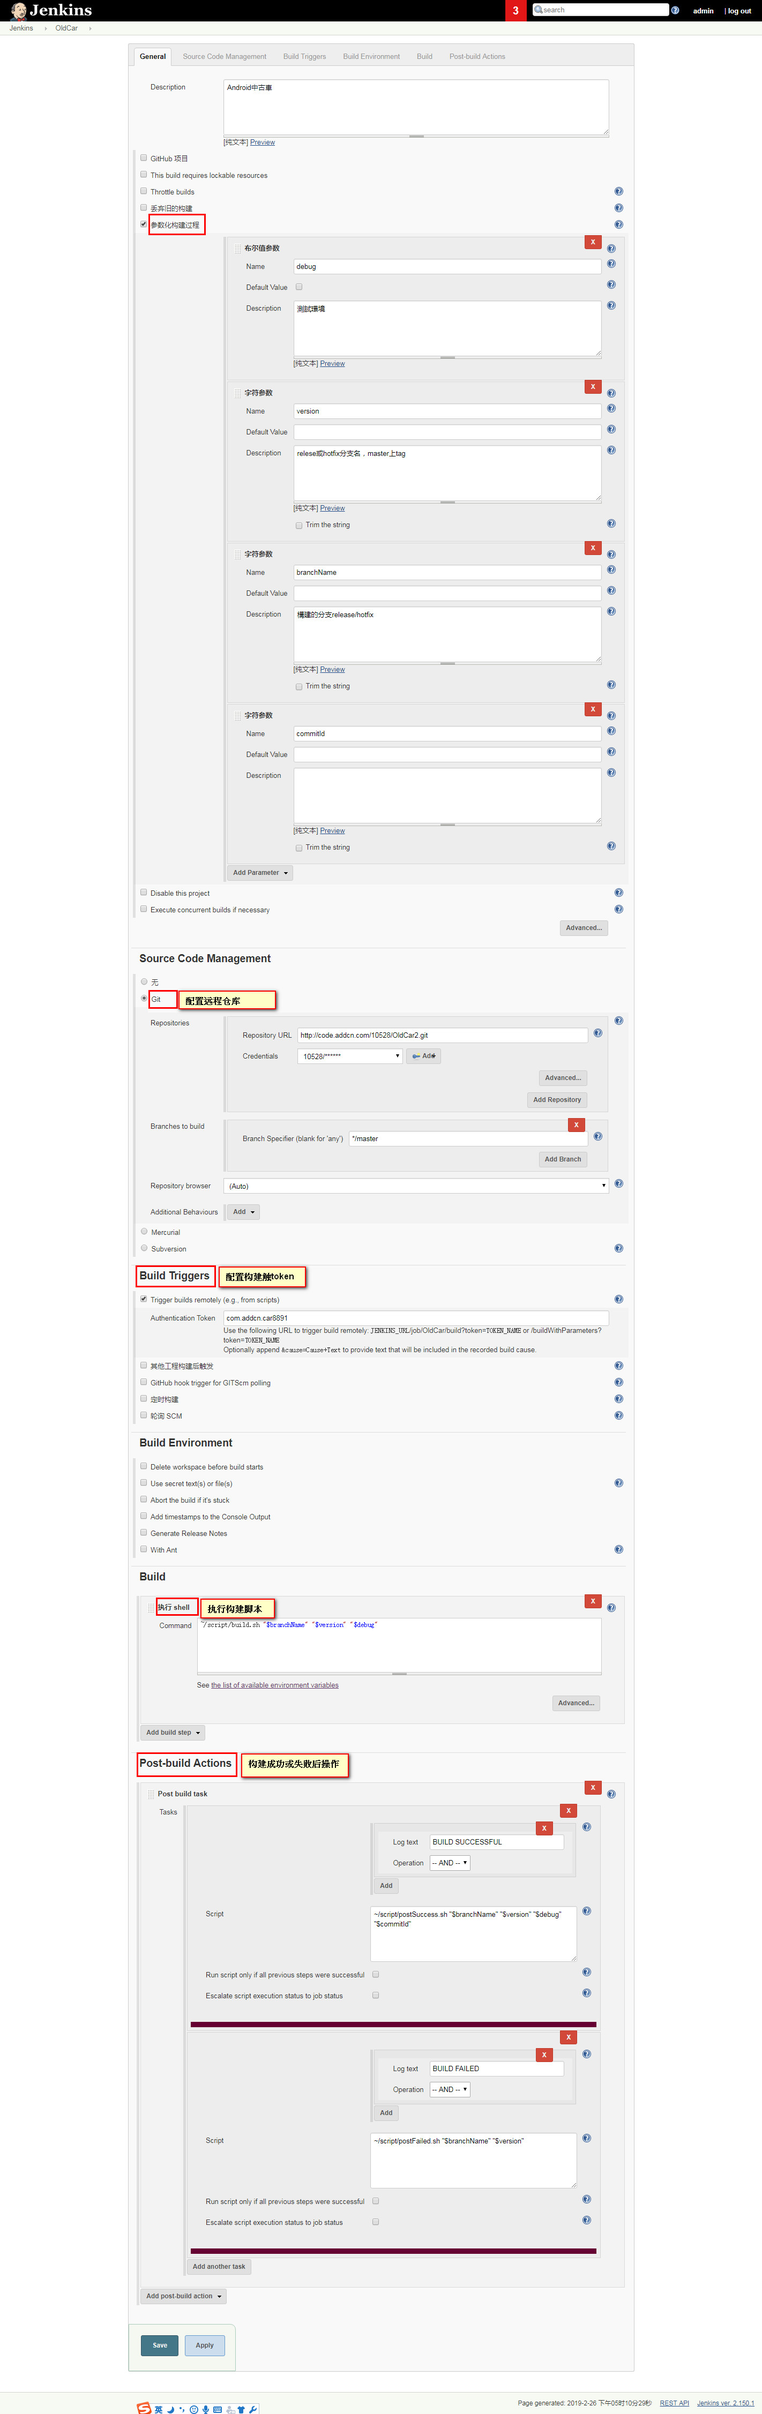
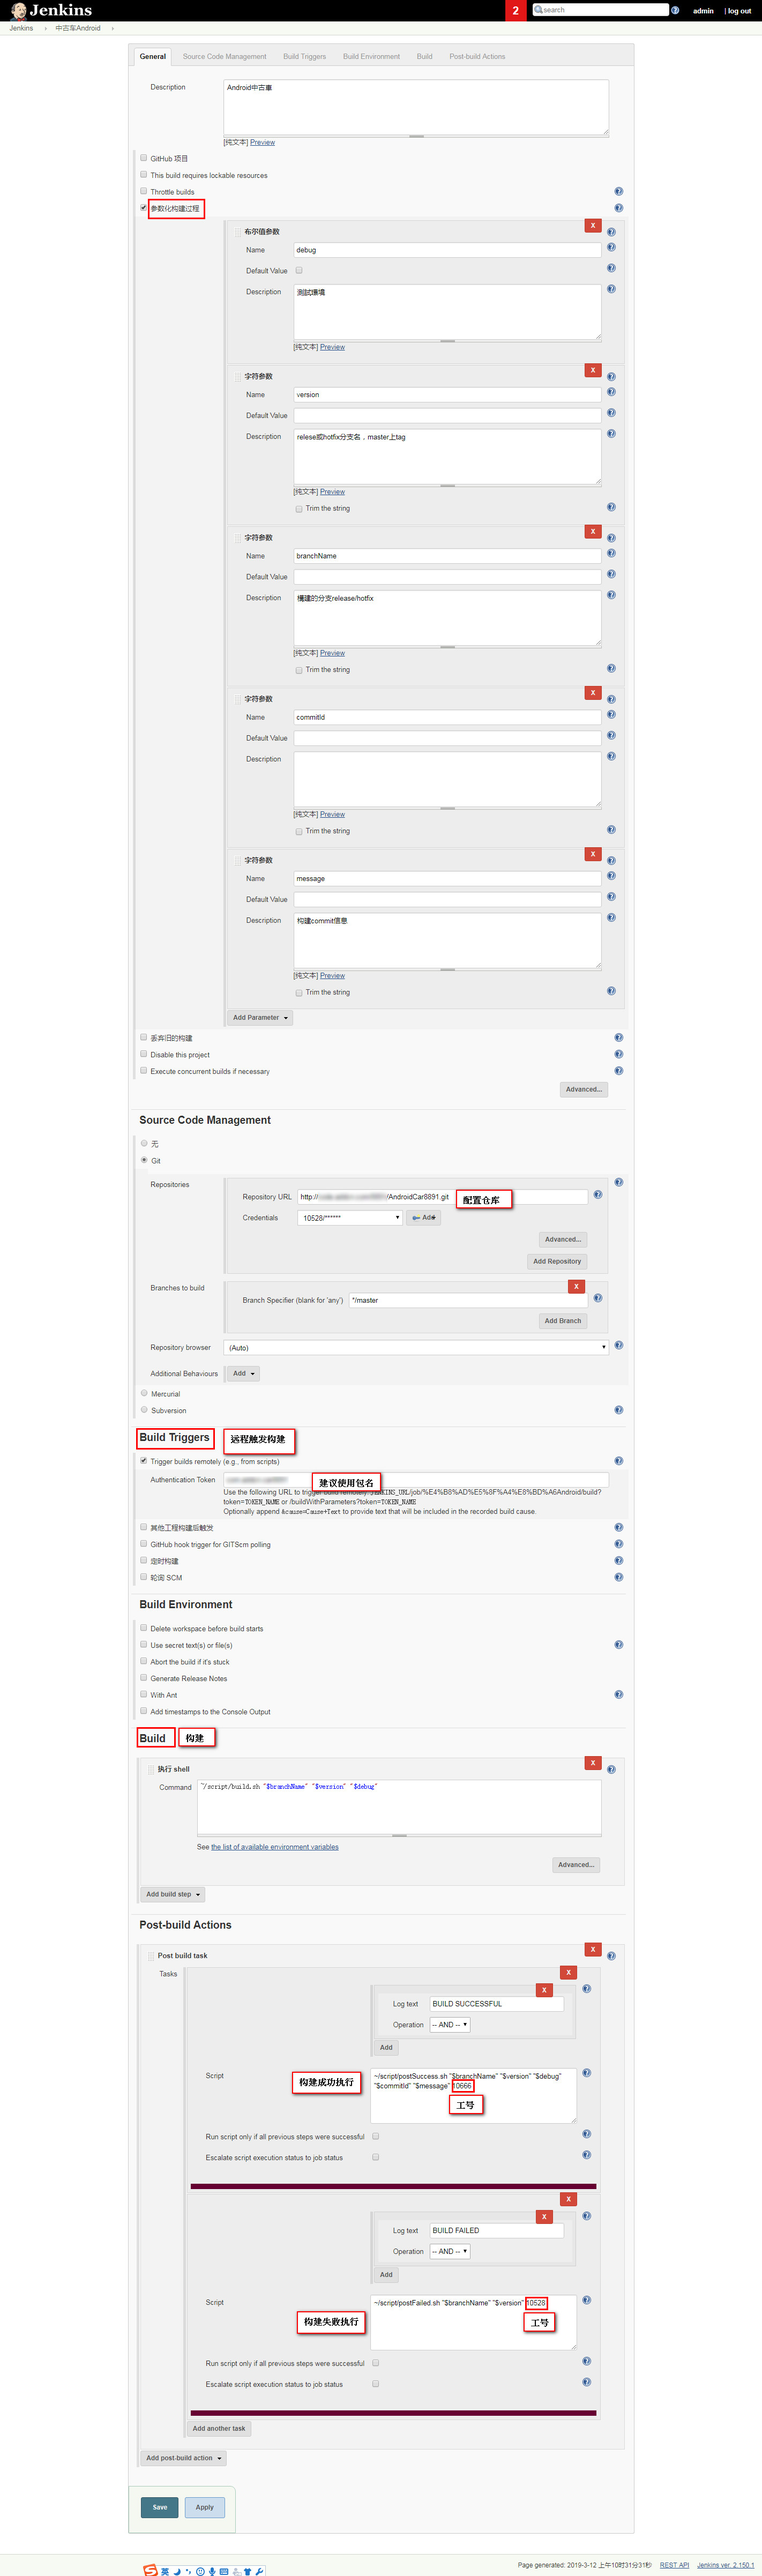
Jenkins实现Android自动打包

diff --git a/Jenkins实现Android自动打包.md b/Jenkins实现Android自动打包.md
@@ -1,0 +1,234 @@
+# Jenkins实现Android自动打包
+
+## 环境搭建
+
+### sdk-tools安装
+
+[下载sdk-tools](https://developer.android.com/studio")
+
+![](/pics/download_sdk_tools.png)
+
+安装完成后使用sdkmanager安装platform-tools和ploatforms
+
+> 构建不需要Android Studio，仅下载命令行工具
+
+### 安装git
+略
+
+### Jenkins安装
+
+ 1. 安装：略
+ 2. 插件：Git、Gradle、post build taks(根据构建log执行构建后操作)、thinBackup(配置备份)
+ 3. 运行：java -jar jenkins.war
+ 4. 配置环境变量：
+ 
+![](/pics/jenkins_git.jpg)
+
+![](/pics/jenkins_env.jpg)
+
+### shell脚本
+
+ [教程](http://www.runoob.com/linux/linux-shell.html)
+
+ > if[condition]是if test condition的另一种写法
+ 
+ > [[expression]]提供针对字符串比较的高级特性,如
+ 
+ ```
+ [["$branchName" == release* || "$branchName" == hotfix*]]
+ ```
+ 
+### 项目配置
+ 
+#### 配置
+
+![](/pics/jenkins_oldcar.jpg)
+
+#### 脚本
+拉取分支，执行Android构建
+build.sh
+
+```
+#!/bin/bash
+branchName=$1
+versioon=$2
+debug=$3
+if [[ "$branchName" == release* || "$branchName" == hotfix* ]]
+then
+	git fetch --all
+    git checkout $branchName
+    if [ $? -eq 0 ]
+    then
+        git pull
+    else
+        echo BUILD FAILED
+        echo no branch:$branchName
+        exit -1
+    fi
+elif [[ $version == *.*.* ]]
+then
+	git fetch --all
+    git checkout $version
+    if [ $? -eq 0 ]
+    then
+        git pull
+    else
+        echo BUILD FAILED
+        echo no version:$version
+        exit -1
+    fi
+else
+	echo BUILD FAILED
+    echo branch is not release or hotfix,version tag is not exit
+    exit -1
+fi
+
+chmod +x gradlew
+if( $debug )
+then
+	./gradlew clean assembleDebug
+else
+	./gradlew clean assembleRelease
+fi
+
+```
+
+Android构建成功,把apk移到指定目录，生成此次构建的json文件，发送RTX通知给测试人员
+postSuccess.sh
+
+```
+#!/bin/bash
+echo '構建成功'
+branch=$1
+v=$2
+debug=$3
+commitId=$4
+if [[ $branch == release* || $branch == hotfix* ]]
+    then
+    v=${branch#*/}
+fi
+
+msg=''
+job=$JOB_NAME
+dir=${job%%_*}
+if $debug
+then
+	mkdir -p "/Users/addcn/pack/build/app/$job/debug/$v"
+    path=$(find . -type f -name '*.apk')
+	mv "$path" "/Users/addcn/pack/build/app/$job/debug/$v/$v-debug.apk"
+    msg="/app/$job/debug/$v/$v-debug.apk"
+    date=$(date +'%Y-%m-%d %H:%M:%S')
+    ~/script/apkJson.sh "$v" "$date" "$4" "$msg" "" "$5"
+else
+	mkdir -p "/Users/addcn/pack/build/app/$job/release/$v"
+    path=$(find . -type f -name '*.apk')
+    mv "$path" "/Users/addcn/pack/build/app/$job/release/$v/$v-release.apk"
+    msg="/app/$job/release/$v/$v-release.apk"
+    date=$(date +'%Y-%m-%d %H:%M:%S')
+    ~/script/apkJson.sh "$v" "$date" "$4" "" "$msg" "$5"
+fi
+
+name=''
+msg="https://dl.8891.app"
+shift 5
+while [ -n "$1" ]
+do
+    name=$1
+    curl "http://eagle.591.com.tw/jalert/alert_action/57/0/$name?msg=$msg"
+    shift
+done
+
+```
+
+生成json文件
+apkJson.sh
+
+```
+#!/bin/bash
+source ~/script/decode.sh
+file=''
+url=''
+type=''
+mkdir -p "$HOME/pack/build/app/$JOB_NAME/json"
+if [ -n "$4" ]
+then
+    file="$HOME/pack/build/app/$JOB_NAME/json/$1-debug.json"
+    url=$4
+    type=debug
+else
+    file="$HOME/pack/build/app/$JOB_NAME/json/$1-release.json"
+    url=$5
+    type=release
+fi
+if [ -e $file ]
+then
+    > $file
+fi
+commitMsg=$(urldecode $6)
+echo "{\"icon\":\"/app/$JOB_NAME/icon.png\",\"name\":\"$JOB_NAME\",\"version\":\"$1\",\"date\":\"$2\",\"git_sha1\":\"$3\",\"download_url\":\"$url\",\"env\":\"$type\",\"description\":\"$commitMsg\"}" > $file
+
+```
+
+对文本进行解码
+decode.sh
+
+```
+#!/bin/bash
+urldecode() { : "${*//+/ }"; echo -e "${_//%/\\x}"; }
+```
+
+> 引用其他脚本：source xxx.sh。之后可以使用这个脚本里定义的方法
+
+构建失败，发送通知和邮件给开发人员
+postFailed.sh
+
+```
+#!/bin/bash
+echo 發送消息給開發人員
+v=$2
+branch=$1
+msg=''
+if [ -n "$branch" ]
+then
+    msg="$branch 构建失败"
+elif [ -n "$v" ]
+then
+    msg="$v 构建失败"
+else
+    msg='构建失败:no branch and tag version'
+fi
+name=''
+shift 2
+while [ -n "$1" ]
+do
+    name=$1
+curl -X GET -G --data-urlencode "msg=$msg" "http://eagle.591.com.tw/jalert/alert_action/57/0/$name"
+    shift
+done
+
+```
+
+> 使用curl，如果有特殊字符(中文等)需要转码
+
+### 触发构建
+
+#### 触发链接
+
+如：http://XXX/job/OldCar/buildWithParameters?token=xxxxxx&version=0.0.0&debug=false&message=test
+
+version：用于master分支，值为master当前最新tag
+branchName：用于release或hotfix分支，值为分支名
+version和branchName二选一
+debug：release和hotfix分支为true，master分支为false
+message:commit信息
+
+#### 分支結構
+release和hotfix提交后触发构建
+![](/pics/branch.jpg)
+
+## 注意 
+如果脚本在windows下编写，在mac上可能出现no such file or directory的错误。
+解决方法
+1. vi xxx.sh
+2. set fileformat=unix
+3. :qw!
